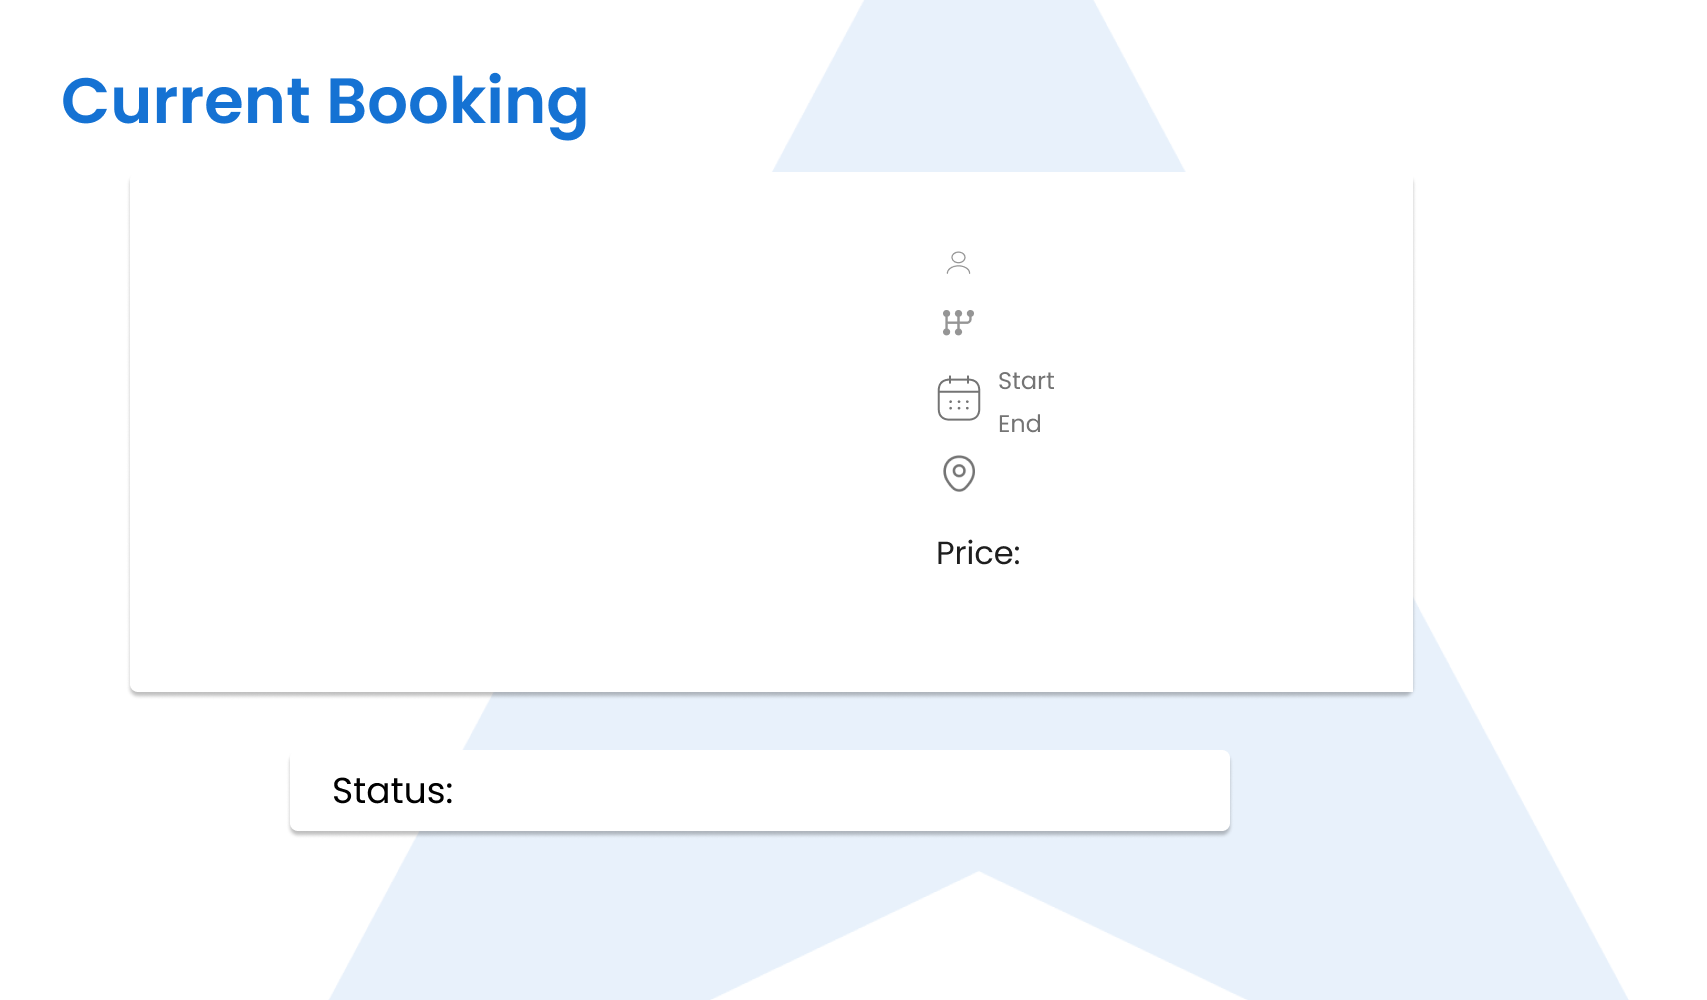
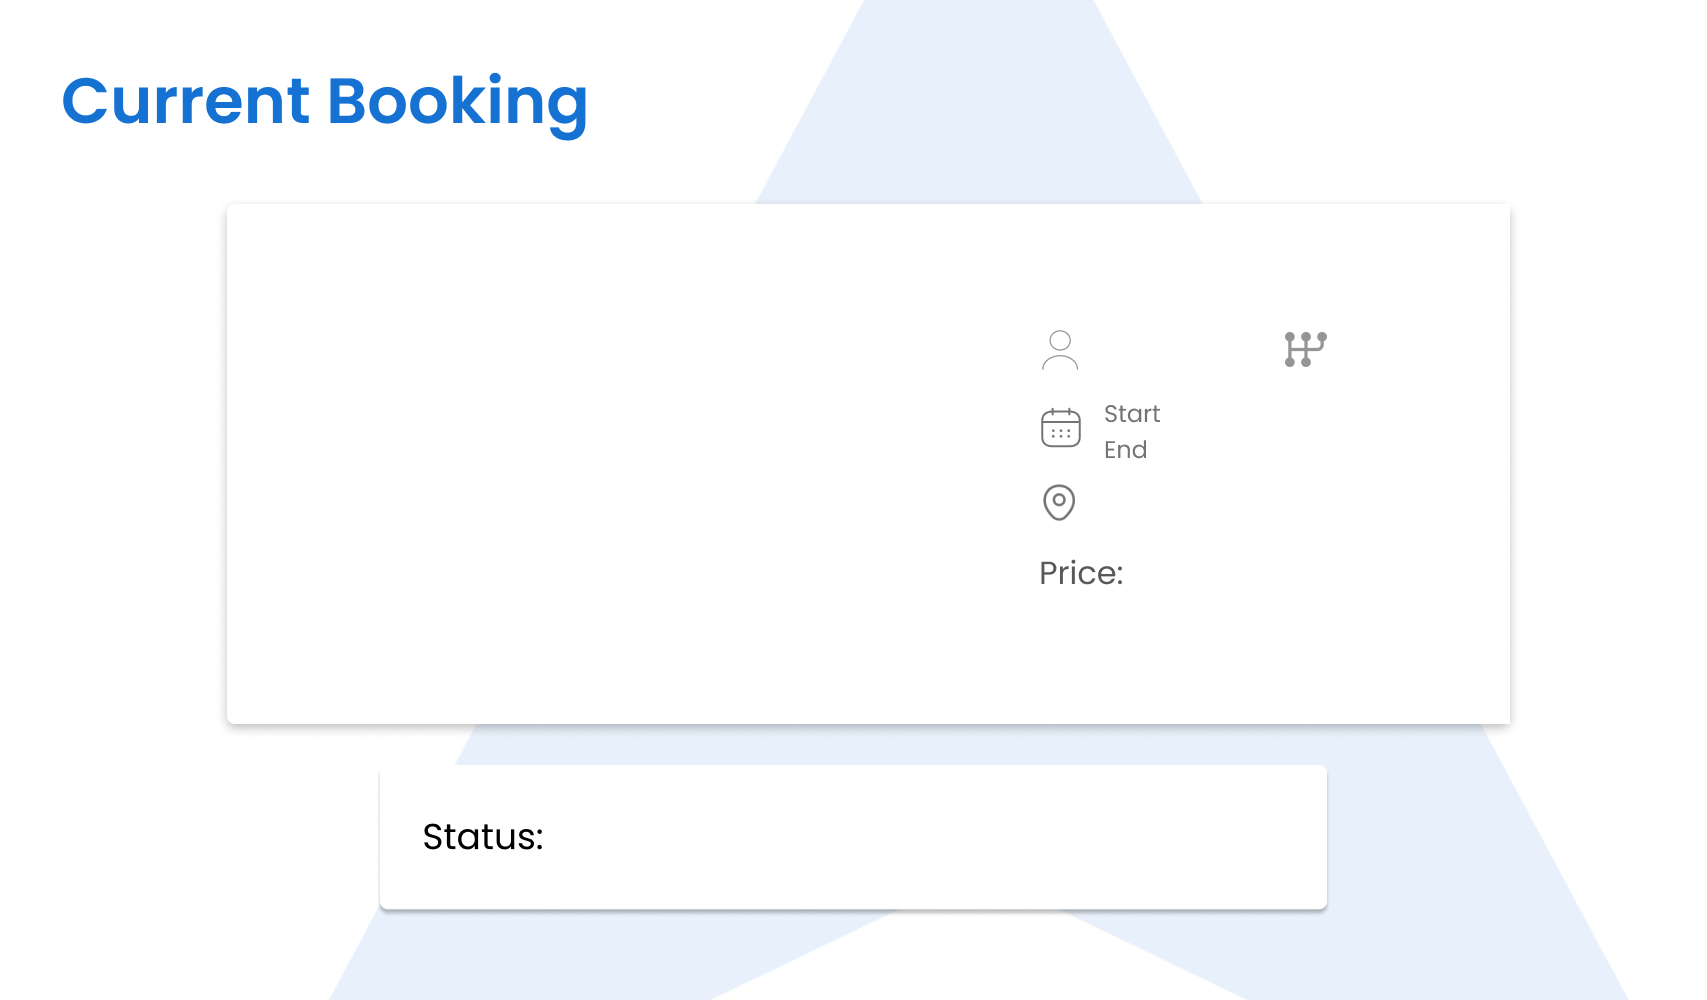
update booking page

diff --git a/ALLProject/Booking Page.py b/ALLProject/Booking Page.py
@@ -12,42 +12,42 @@ booking_page=[0,"Perodua Axia","Project Images/PeroduaAxia.jpg","5 people","Auto
 
 car_image_ph=customtkinter.CTkImage(light_image=Image.open(booking_page[2]),size=(563/1707*root1.winfo_screenwidth(),327/1069*root1.winfo_screenheight()))
 car_image_ph_label=customtkinter.CTkLabel(root1,image=car_image_ph,text="")
-car_image_ph_label.place(x=243/1707*root1.winfo_screenwidth(),y=310/1067*root1.winfo_screenheight(),anchor="nw")
+car_image_ph_label.place(x=333/1707*root1.winfo_screenwidth(),y=310/1067*root1.winfo_screenheight(),anchor="nw")
 
-car_name=customtkinter.CTkLabel(root1,width=442/1707*root1.winfo_screenwidth(),height=61/1067*root1.winfo_screenheight(),fg_color="#FFFFFF",bg_color="#FFFFFF",text=booking_page[1],text_color="#000000",font=("Poppins Light",48))
-car_name.place(x=304/1707*root1.winfo_screenwidth(),y=224/1067*root1.winfo_screenheight(),anchor="nw")
+car_name=customtkinter.CTkLabel(root1,width=442/1707*root1.winfo_screenwidth(),height=61/1067*root1.winfo_screenheight(),fg_color="#FFFFFF",bg_color="#FFFFFF",text=booking_page[1],text_color="#000000",font=("Poppins",30))
+car_name.place(x=1030/1707*root1.winfo_screenwidth(),y=240/1067*root1.winfo_screenheight(),anchor="nw")
 
-capacity=customtkinter.CTkLabel(root1,width=305/1707*root1.winfo_screenwidth(),height=39/1067*root1.winfo_screenheight(),fg_color="#FFFFFF",bg_color="#FFFFFF",text=booking_page[3],anchor="w",text_color="#747474",font=("Poppins Light",30))
-capacity.place(x=998/1707*root1.winfo_screenwidth(),y=243/1067*root1.winfo_screenheight(),anchor="nw")
+capacity=customtkinter.CTkLabel(root1,width=125/1707*root1.winfo_screenwidth(),height=39/1067*root1.winfo_screenheight(),fg_color="#FFFFFF",bg_color="#FFFFFF",text=booking_page[3],anchor="w",text_color="#747474",font=("Poppins Light",24))
+capacity.place(x=1100/1707*root1.winfo_screenwidth(),y=328/1067*root1.winfo_screenheight(),anchor="nw")
 
-capacity=customtkinter.CTkLabel(root1,width=305/1707*root1.winfo_screenwidth(),height=39/1067*root1.winfo_screenheight(),fg_color="#FFFFFF",bg_color="#FFFFFF",text=booking_page[4],anchor="w",text_color="#747474",font=("Poppins Light",30))
-capacity.place(x=998/1707*root1.winfo_screenwidth(),y=303/1067*root1.winfo_screenheight(),anchor="nw")
+type=customtkinter.CTkLabel(root1,width=115/1707*root1.winfo_screenwidth(),height=39/1067*root1.winfo_screenheight(),fg_color="#FFFFFF",bg_color="#FFFFFF",text=booking_page[4],anchor="w",text_color="#747474",font=("Poppins Light",24))
+type.place(x=1350/1707*root1.winfo_screenwidth(),y=328/1067*root1.winfo_screenheight(),anchor="nw")
 
-start_date=customtkinter.CTkLabel(root1,width=242/1707*root1.winfo_screenwidth(),height=35/1067*root1.winfo_screenheight(),fg_color="#FFFFFF",bg_color="#FFFFFF",text=booking_page[5],anchor="w",text_color="#747474",font=("Poppins Light",24))
-start_date.place(x=1061/1707*root1.winfo_screenwidth(),y=363/1067*root1.winfo_screenheight(),anchor="nw")
+start_date=customtkinter.CTkLabel(root1,width=242/1707*root1.winfo_screenwidth(),height=35/1067*root1.winfo_screenheight(),fg_color="#FFFFFF",bg_color="#FFFFFF",text=booking_page[5],anchor="w",text_color="#747474",font=("Poppins Light",22))
+start_date.place(x=1191/1707*root1.winfo_screenwidth(),y=395/1067*root1.winfo_screenheight(),anchor="nw")
 
-end_date=customtkinter.CTkLabel(root1,width=251/1707*root1.winfo_screenwidth(),height=35/1067*root1.winfo_screenheight(),fg_color="#FFFFFF",bg_color="#FFFFFF",text=booking_page[6],anchor="w",text_color="#747474",font=("Poppins Light",24))
-end_date.place(x=1052/1707*root1.winfo_screenwidth(),y=406/1067*root1.winfo_screenheight(),anchor="nw")
+end_date=customtkinter.CTkLabel(root1,width=251/1707*root1.winfo_screenwidth(),height=35/1067*root1.winfo_screenheight(),fg_color="#FFFFFF",bg_color="#FFFFFF",text=booking_page[6],anchor="w",text_color="#747474",font=("Poppins Light",22))
+end_date.place(x=1182/1707*root1.winfo_screenwidth(),y=431/1067*root1.winfo_screenheight(),anchor="nw")
 
-location=customtkinter.CTkLabel(root1,width=305/1707*root1.winfo_screenwidth(),height=39/1067*root1.winfo_screenheight(),fg_color="#FFFFFF",bg_color="#FFFFFF",text=booking_page[7],anchor="w",text_color="#747474",font=("Poppins Light",30))
-location.place(x=998/1707*root1.winfo_screenwidth(),y=454/1067*root1.winfo_screenheight(),anchor="nw")
+location=customtkinter.CTkLabel(root1,width=305/1707*root1.winfo_screenwidth(),height=39/1067*root1.winfo_screenheight(),fg_color="#FFFFFF",bg_color="#FFFFFF",text=booking_page[7],anchor="w",text_color="#747474",font=("Poppins Light",24))
+location.place(x=1098/1707*root1.winfo_screenwidth(),y=484/1067*root1.winfo_screenheight(),anchor="nw")
 
-price=customtkinter.CTkLabel(root1,width=264/1707*root1.winfo_screenwidth(),height=39/1067*root1.winfo_screenheight(),fg_color="#FFFFFF",bg_color="#FFFFFF",text=booking_page[8],anchor="w",text_color="#000000",font=("Poppins Light",32))
-price.place(x=1037/1707*root1.winfo_screenwidth(),y=532/1067*root1.winfo_screenheight(),anchor="nw")
+price=customtkinter.CTkLabel(root1,width=264/1707*root1.winfo_screenwidth(),height=39/1067*root1.winfo_screenheight(),fg_color="#FFFFFF",bg_color="#FFFFFF",text=booking_page[8],anchor="w",text_color="#9C9C9C",font=("Poppins",24))
+price.place(x=1157/1707*root1.winfo_screenwidth(),y=552/1067*root1.winfo_screenheight(),anchor="nw")
 
-status=customtkinter.CTkLabel(root1,width=307.46/1707*root1.winfo_screenwidth(),height=54/1067*root1.winfo_screenheight(),fg_color="#FFFFFF",bg_color="#FFFFFF",text=booking_page[9],text_color="#000000",font=("Poppins Light",40))
-status.place(x=486/1707*root1.winfo_screenwidth(),y=764/1067*root1.winfo_screenheight(),anchor="nw")
+status=customtkinter.CTkLabel(root1,width=307.46/1707*root1.winfo_screenwidth(),height=54/1067*root1.winfo_screenheight(),fg_color="#FFFFFF",bg_color="#FFFFFF",text=booking_page[9],text_color="#000000",font=("Poppins",30))
+status.place(x=566/1707*root1.winfo_screenwidth(),y=809/1067*root1.winfo_screenheight(),anchor="nw")
 
-bck_btn=customtkinter.CTkButton(root1,width=171/1707*root1.winfo_screenwidth(),height=69/1067*root1.winfo_screenheight(),fg_color="#1572D3",text="Back",text_color="#FFFFFF",font=("Poppins Light",24))
+bck_btn=customtkinter.CTkButton(root1,width=171/1707*root1.winfo_screenwidth(),height=69/1067*root1.winfo_screenheight(),bg_color="white",fg_color="#1572D3",text="Back",text_color="#FFFFFF",font=("Poppins",24))
 bck_btn.place(x=61/1707*root1.winfo_screenwidth(),y=879/1067*root1.winfo_screenheight(),anchor="nw")
 
-update_btn=customtkinter.CTkButton(root1,width=171/1707*root1.winfo_screenwidth(),height=60.4/1067*root1.winfo_screenheight(),fg_color="#1572D3",text="Update",text_color="#FFFFFF",font=("Poppins Light",24))
-update_btn.place(x=951/1707*root1.winfo_screenwidth(),y=611.08/1067*root1.winfo_screenheight(),anchor="nw")
+update_btn=customtkinter.CTkButton(root1,width=171/1707*root1.winfo_screenwidth(),height=60.4/1067*root1.winfo_screenheight(),bg_color="white",fg_color="#1572D3",text="Update",text_color="#FFFFFF",font=("Poppins",24))
+update_btn.place(x=1071/1707*root1.winfo_screenwidth(),y=621.08/1067*root1.winfo_screenheight(),anchor="nw")
 
-cancel_btn=customtkinter.CTkButton(root1,width=171/1707*root1.winfo_screenwidth(),height=60.4/1067*root1.winfo_screenheight(),fg_color="#1572D3",text="Cancel",text_color="#FFFFFF",font=("Poppins Light",24))
-cancel_btn.place(x=1173/1707*root1.winfo_screenwidth(),y=611.08/1067*root1.winfo_screenheight(),anchor="nw")
+cancel_btn=customtkinter.CTkButton(root1,width=171/1707*root1.winfo_screenwidth(),height=60.4/1067*root1.winfo_screenheight(),bg_color="white",fg_color="#1572D3",text="Cancel",text_color="#FFFFFF",font=("Poppins",24))
+cancel_btn.place(x=1273/1707*root1.winfo_screenwidth(),y=621.08/1067*root1.winfo_screenheight(),anchor="nw")
 
-pay_btn=customtkinter.CTkButton(root1,width=153/1707*root1.winfo_screenwidth(),height=54.4/1067*root1.winfo_screenheight(),fg_color="#1572D3",text="Pay",text_color="#FFFFFF",font=("Poppins Light",24))
-pay_btn.place(x=998/1707*root1.winfo_screenwidth(),y=764/1067*root1.winfo_screenheight(),anchor="nw")
+pay_btn=customtkinter.CTkButton(root1,width=153/1707*root1.winfo_screenwidth(),height=54.4/1067*root1.winfo_screenheight(),bg_color="white",fg_color="#1572D3",text="Pay",text_color="#FFFFFF",font=("Poppins",24))
+pay_btn.place(x=1098/1707*root1.winfo_screenwidth(),y=809/1067*root1.winfo_screenheight(),anchor="nw")
 
 root1.mainloop()
